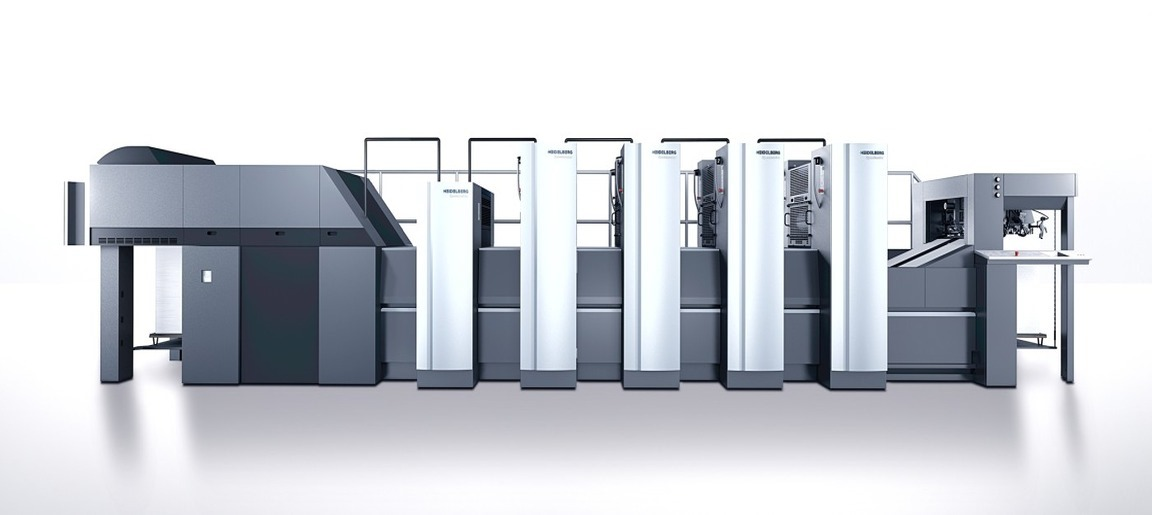
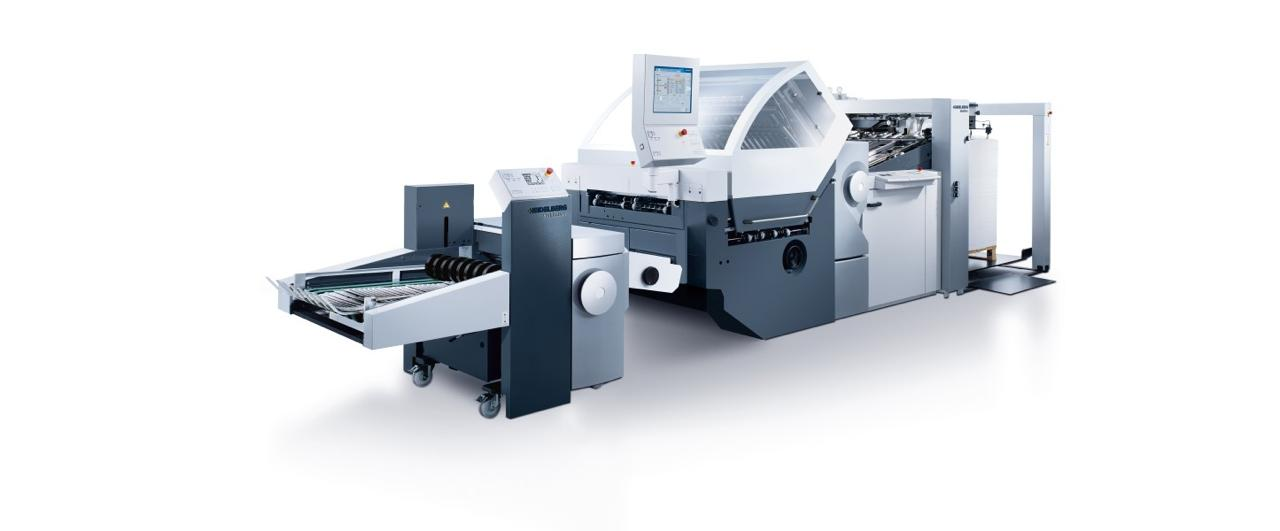
Merge pull request #9 from immehedy/v2.1
requested changes by Tanvir

Pull request: requested changes by Tanvir

diff --git a/app/page.tsx b/app/page.tsx
@@ -81,13 +81,13 @@ export default async function HomePage() {
       url: "/paper-cutting"
     },
     {
-      image: "/die-cutting.jpeg",
+      image: "/die-cutting.png",
       alt: "DIE CUTTING MACHINE",
       title: "DIE CUTTING",
       url: "/die-cutting"
     },
     {
-      image: "/post-press.jpeg",
+      image: "/post-press.png",
       alt: "POST PRESS MACHINE",
       title: "POST PRESS",
       url: "/post-press"
@@ -254,7 +254,7 @@ export default async function HomePage() {
                 key={index}
                 className="text-center hover:shadow-lg transition-shadow">
                 <CardHeader>
-                  <div className="mx-auto mb-4 p-3 bg-accent/10 rounded-full w-fit text-accent">
+                  <div className="mx-auto mb-4 p-3 bg-secondary/10 rounded-full w-fit text-secondary">
                     {service.icon}
                   </div>
                   <CardTitle className="text-lg sm:text-xl">
@@ -271,7 +271,7 @@ export default async function HomePage() {
       </section>
 
       {/* Stats Section */}
-      <section className="py-12 sm:py-16 bg-accent text-primary-foreground">
+      <section className="py-12 sm:py-16 bg-secondary text-secondary-foreground">
         <div className="container mx-auto px-4 sm:px-6 lg:px-8">
           <div className="grid grid-cols-2 sm:grid-cols-2 lg:grid-cols-4 gap-8">
             {stats.map((stat, index) => (

diff --git a/components/navigation.tsx b/components/navigation.tsx
@@ -90,7 +90,7 @@ export function Navigation() {
                 <li key={item.href}>
                   <Link
                     href={item.href}
-                    className="block py-3 px-3 hover:text-blue-700 transition-colors text-gray-700 font-normal uppercase">
+                    className="block py-3 px-3 hover:text-blue-700 transition-colors text-gray-700 font-bold uppercase">
                     {item.label}
                   </Link>
                 </li>
@@ -101,7 +101,7 @@ export function Navigation() {
                 className="relative"
                 onMouseEnter={() => setIsMachinesOpen(true)}
                 onMouseLeave={() => setIsMachinesOpen(false)}>
-                <button className="flex items-center gap-1 py-3 px-3 hover:text-blue-700 transition-colors text-gray-700 font-normal">
+                <button className="flex items-center gap-1 py-3 px-3 hover:text-blue-700 transition-colors text-gray-700 font-bold">
                   MACHINERY
                   <ChevronDown
                     className={`h-4 w-4 transition-transform ${
@@ -137,7 +137,7 @@ export function Navigation() {
                 <li key={item.href}>
                   <Link
                     href={item.href}
-                    className="block py-3 px-3 hover:text-blue-700 transition-colors text-gray-700 font-normal">
+                    className="block py-3 px-3 hover:text-blue-700 transition-colors text-gray-700 font-bold">
                     {item.label}
                   </Link>
                 </li>

diff --git a/components/hero.tsx b/components/hero.tsx
@@ -1,5 +1,6 @@
 // app/components/HeroSection.tsx (Server Component)
 import { Search } from 'lucide-react';
+import Link from 'next/link';
 import ImageCarousel from './ImageCarousel'; // The client component above
 
 export default function HeroSection() {
@@ -36,10 +37,10 @@ export default function HeroSection() {
               </p>
             </div>
 
-            <button className="inline-flex items-center gap-2 bg-blue-600 hover:bg-blue-700 text-white px-6 py-3 rounded-md font-medium transition-colors">
+            <Link href="/press" className="inline-flex items-center gap-2 bg-secondary hover:opacity-90 text-white px-6 py-3 rounded-md font-medium transition-colors">
               <Search className="h-5 w-5" />
               Search what you need
-            </button>
+            </Link>
           </div>
 
           {/* Right Side - Carousel */}

diff --git a/app/globals.css b/app/globals.css
@@ -60,8 +60,8 @@
   /* Primary/Secondary/Accent Colors */
   --primary: oklch(0.518 0.275 328.8); /* #8f278e */
   --primary-foreground: oklch(1 0 0); /* white */
-  --secondary: oklch(0.448 0.239 278.8); /* #303c9a */
-  --secondary-foreground: oklch(1 0 0); /* white */
+  --secondary: oklch(0.32 0.20 272); /* Darker logo-blue */
+  --secondary-foreground: oklch(1 0 0); /* keep foreground white */
   --accent: oklch(0.725 0.192 282.4); /* #7c84e2 */
   --accent-foreground: oklch(1 0 0); /* white */
 